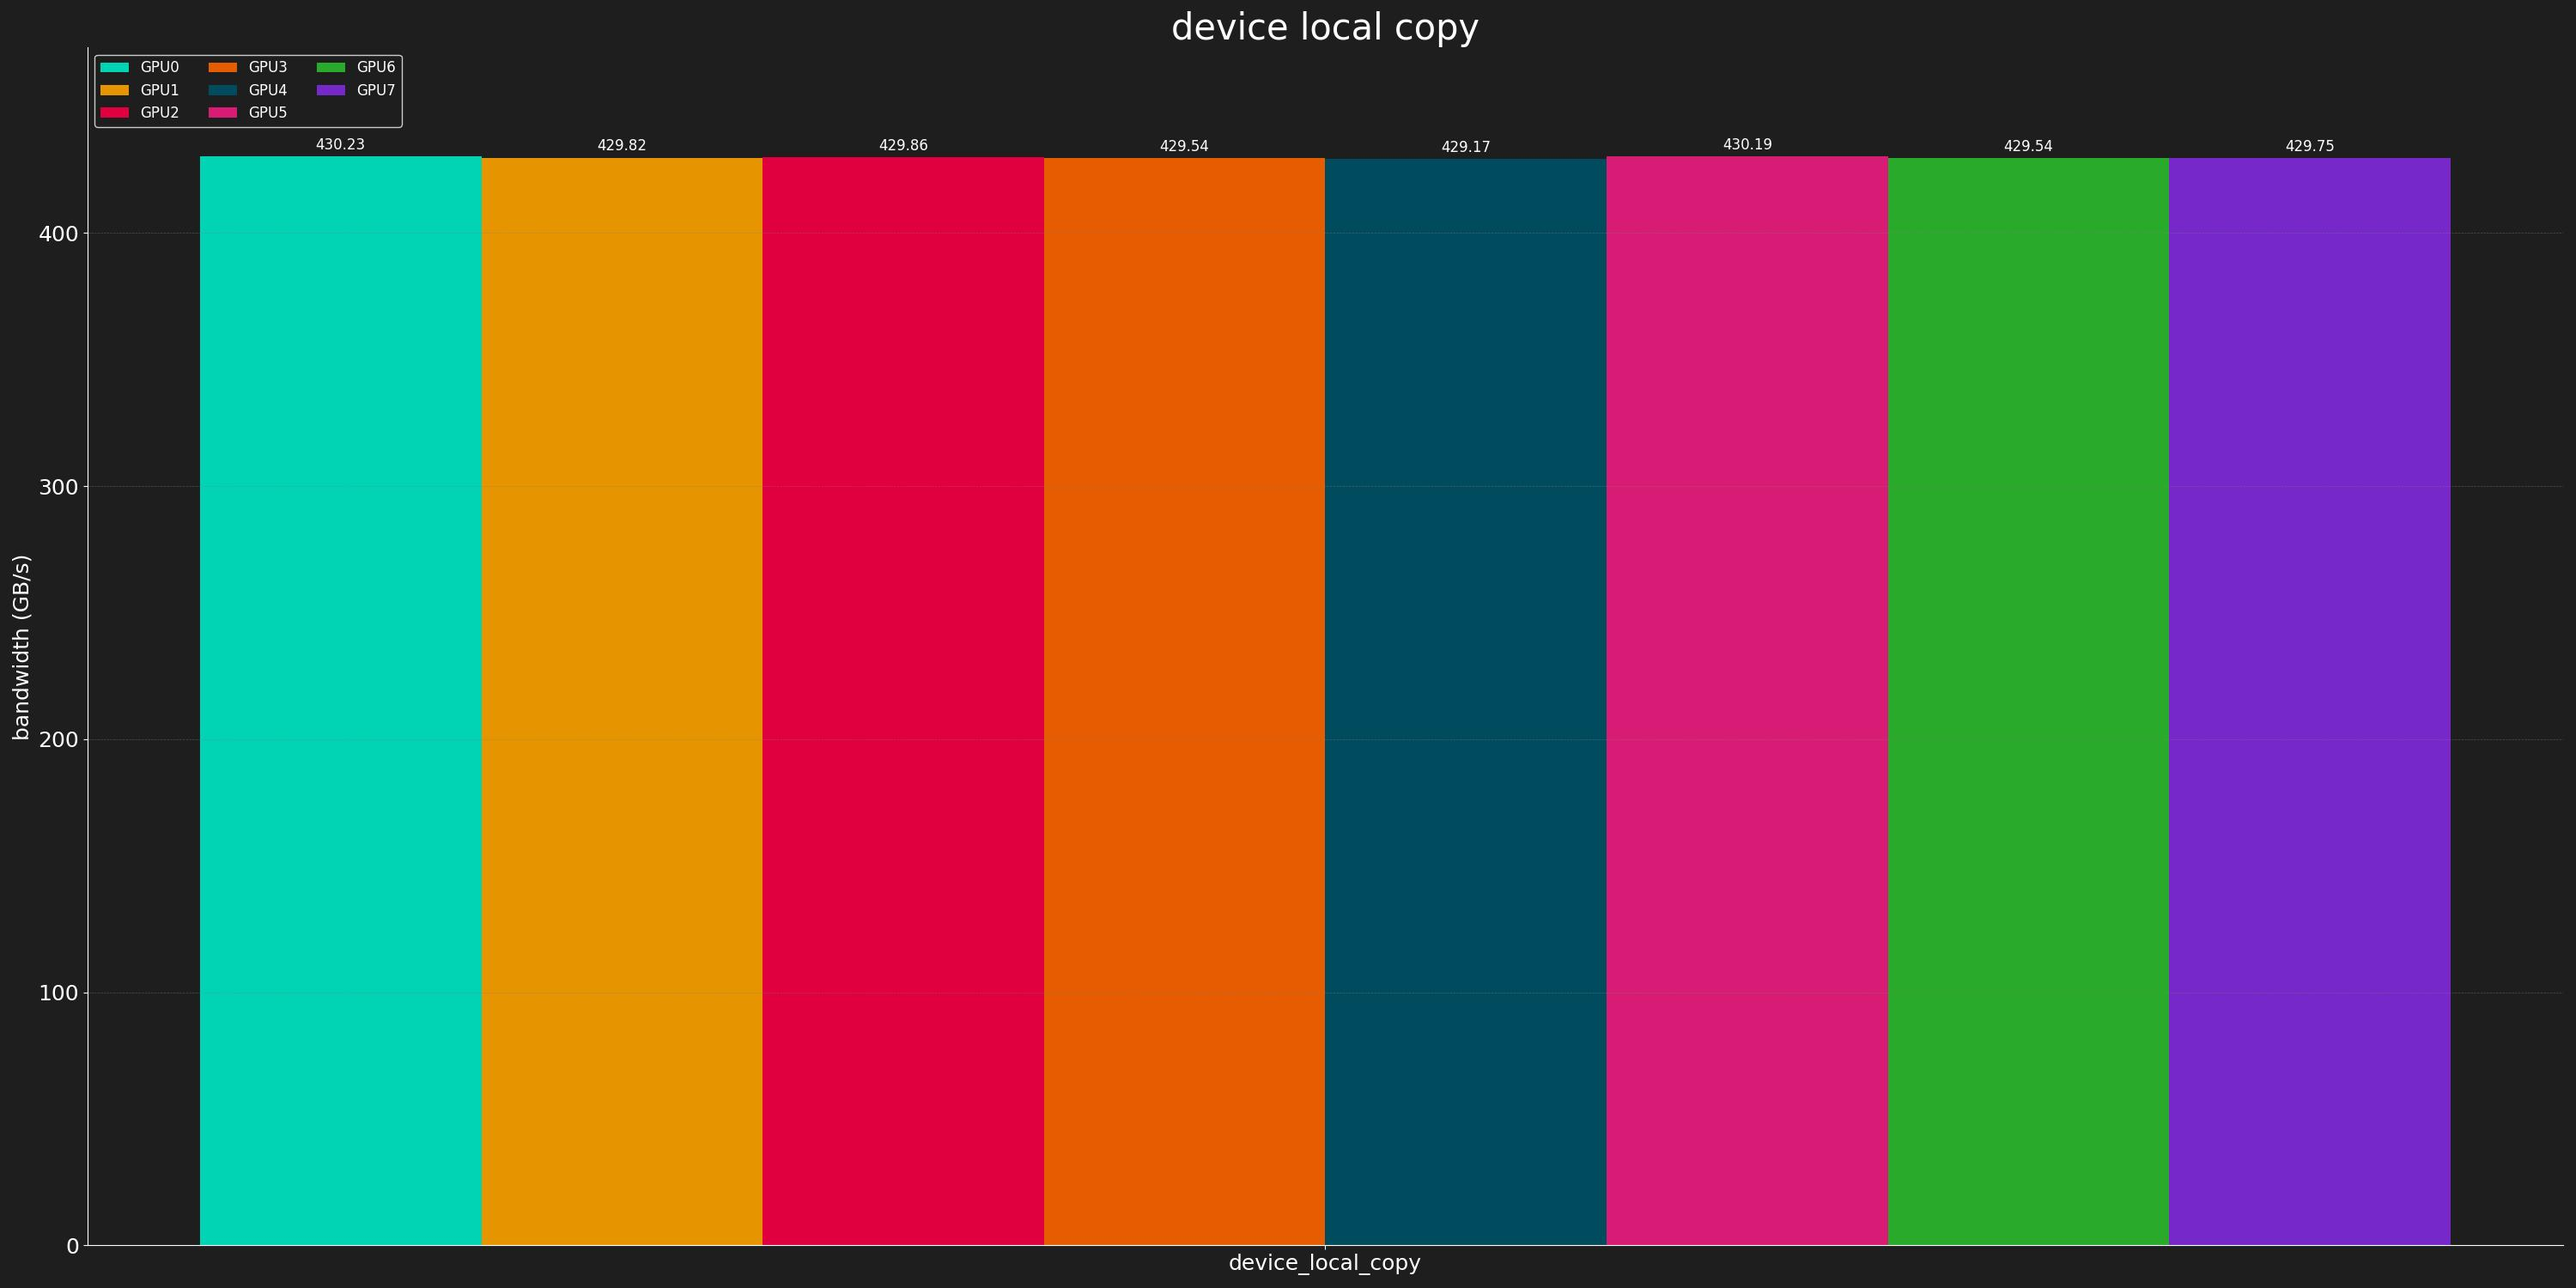
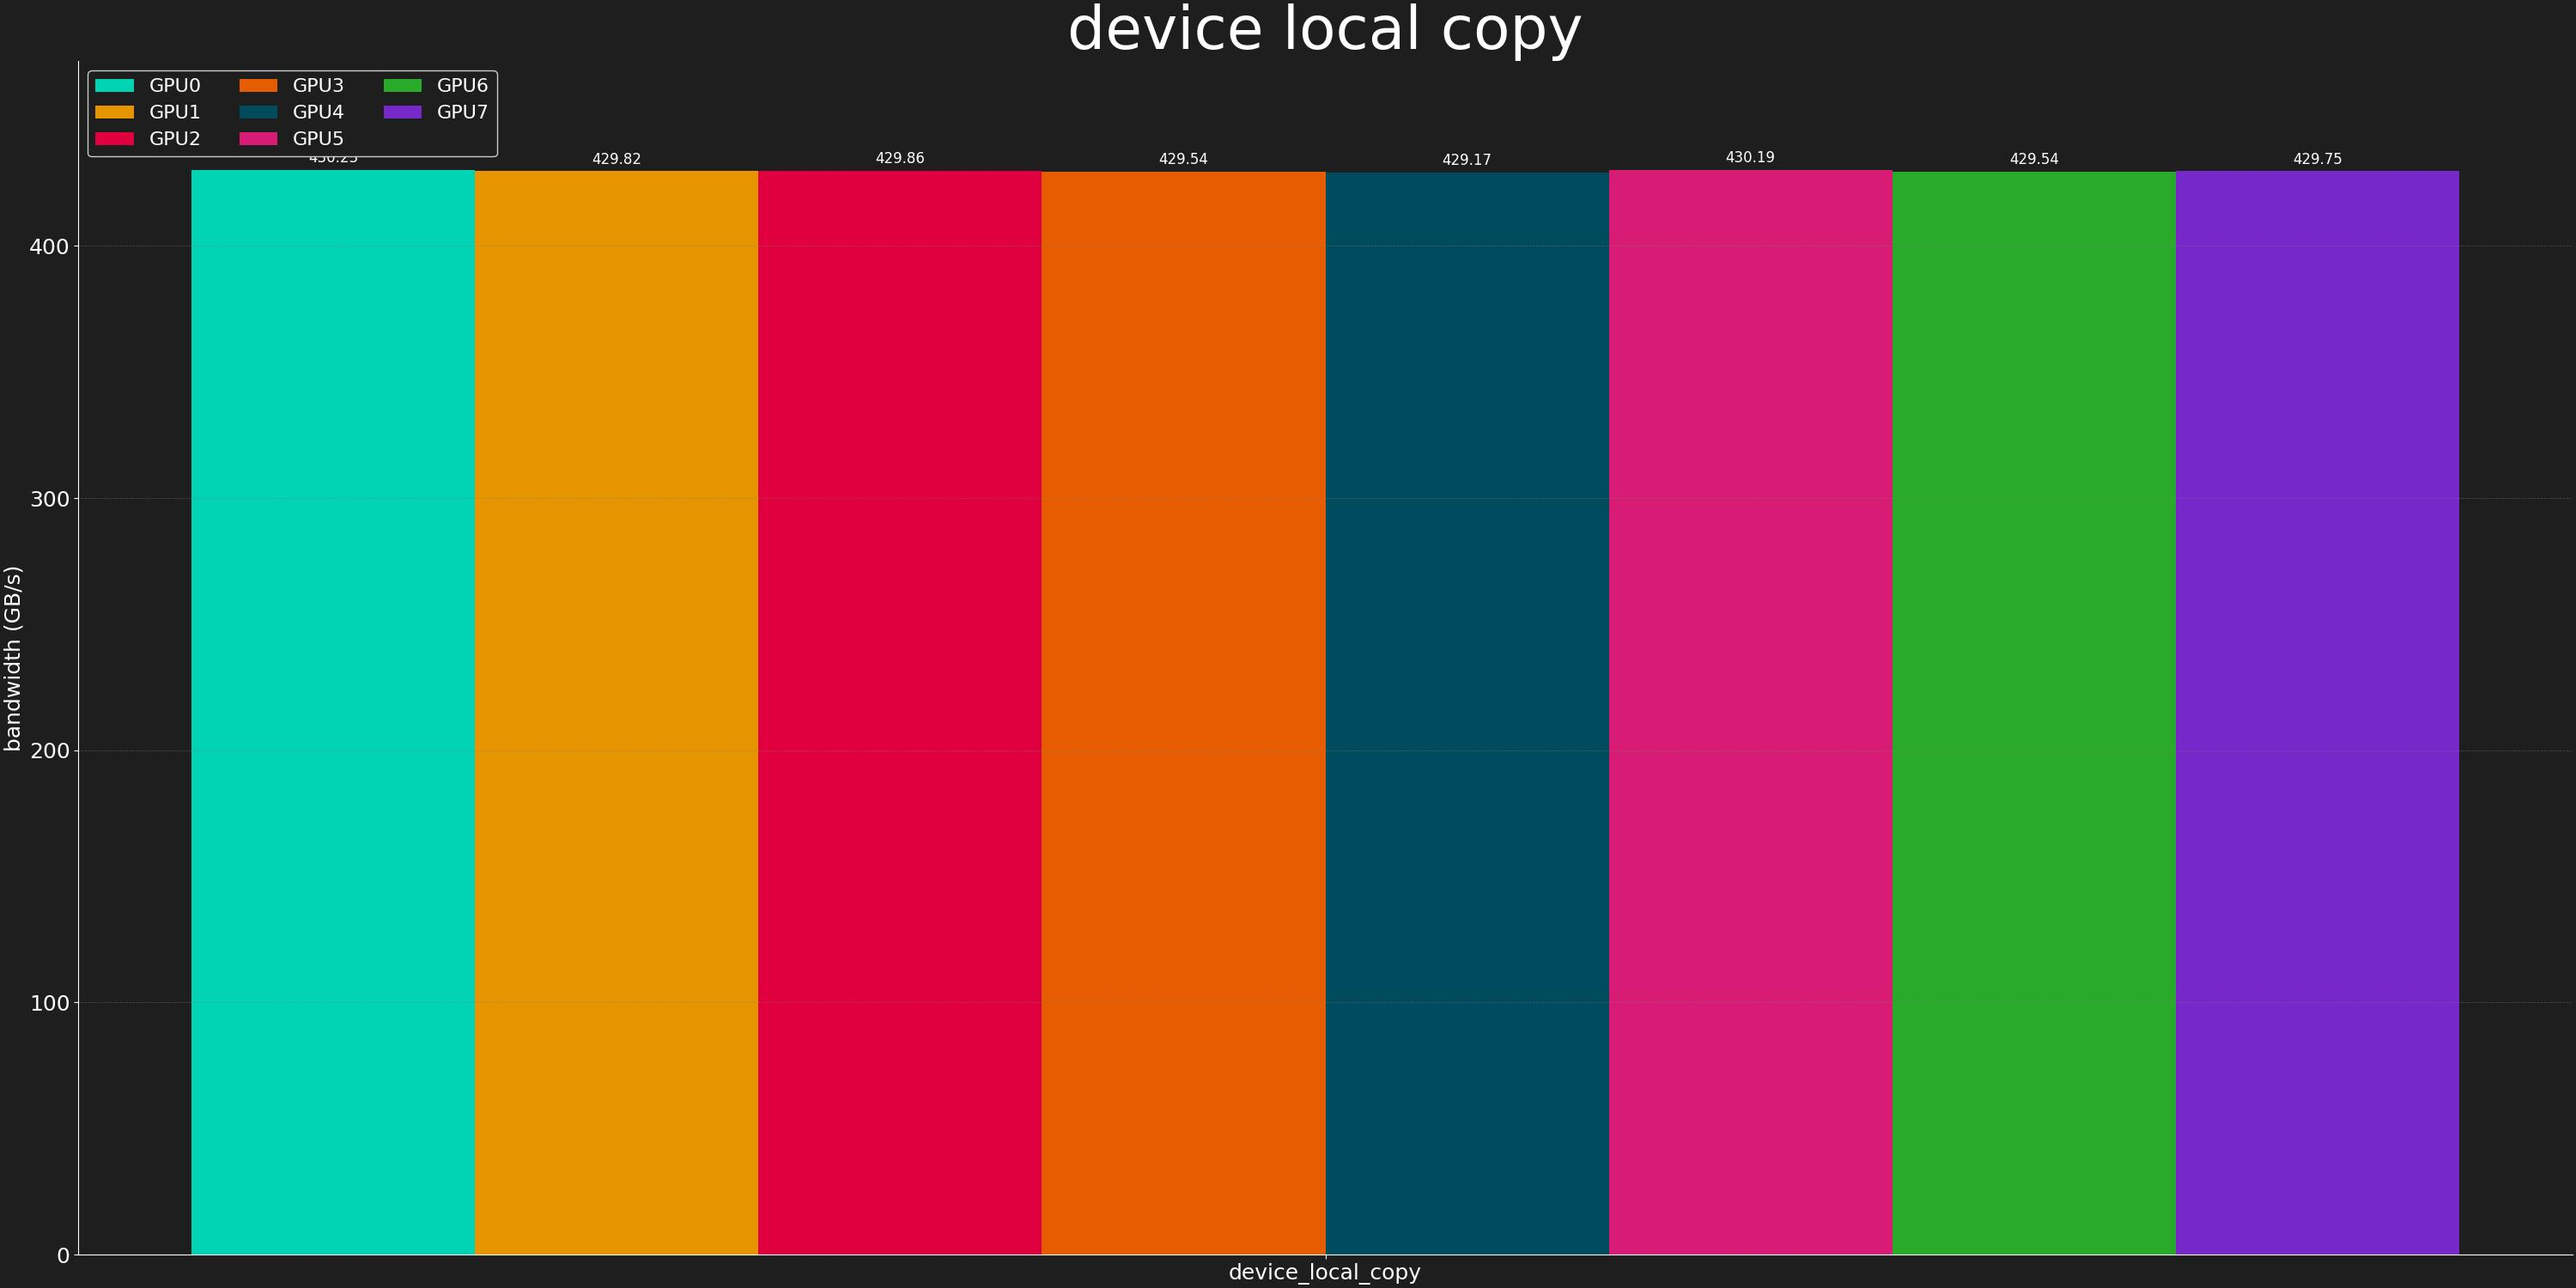
updated configs

diff --git a/graph_generators/bar_graph.py b/graph_generators/bar_graph.py
@@ -3,6 +3,71 @@ import numpy as np
 
 from utils.handle_data import save_graphs
 
+#
+#
+# def plot_bar_graph(data, graph_config, file_name, test_name):
+#     """
+#     Plots a Grafana-style bar graph from a Pandas DataFrame.
+#     Dark mode.
+#     """
+#
+#     plt.rcParams.update({
+#         # ---------- Figure Settings ----------
+#         'figure.facecolor': '#1E1E1E',  # Dark background for the figure
+#         'figure.figsize': (graph_config.WIDTH, graph_config.HEIGHT),  # Default figure size
+#
+#         # ---------- Axes Settings ----------
+#         'axes.facecolor': '#1E1E1E',  # Dark background for the axes
+#         'axes.edgecolor': 'white',  # Color for axes' edges (spines)
+#         'axes.labelsize': graph_config.AXIS_LABEL_FONT_SIZE,  # Font size for axis labels
+#         'axes.labelcolor': 'white',  # Label color for axes
+#         'axes.titleweight': 'bold',  # Make titles bold
+#         'axes.titlesize': graph_config.TITLE_SIZE,  # Title font size
+#
+#         # ---------- Tick Settings ----------
+#         'xtick.labelsize': graph_config.AXIS_LABEL_FONT_SIZE,  # Font size for x-ticks
+#         'xtick.color': 'white',  # Color for x-ticks
+#         'ytick.labelsize': graph_config.AXIS_LABEL_FONT_SIZE,  # Font size for y-ticks
+#         'ytick.color': 'white',  # Color for y-ticks
+#
+#         # ---------- Grid Settings ----------
+#         'grid.color': 'gray',  # Color for gridlines
+#         'grid.linestyle': '--',  # Style for gridlines
+#         'grid.linewidth': 0.5,  # Thickness of gridlines
+#
+#         # ---------- Legend Settings ----------
+#         'legend.facecolor': '#1E1E1E',  # Legend background color
+#         'legend.framealpha': 1,  # Transparency of the legend box
+#         'legend.fontsize': graph_config.LEGEND_FONT_SIZE,  # Font size for legend text
+#         'legend.edgecolor': 'white',  # Color for the border of the legend
+#
+#         # ---------- Text Settings ----------
+#         'text.color': 'white',  # Default color for all text
+#     })
+#     fig, ax = plt.subplots()
+#     num_rows, num_columns = data.shape
+#     x = np.arange(num_rows)  # Label positions
+#
+#     # Plot bars
+#     for i, column in enumerate(data.columns):
+#         offset = (i - (num_columns - 1) / 2) * graph_config.BAR_WIDTH  # Center bars
+#         rects = ax.bar(
+#             x + offset, data[column], graph_config.BAR_WIDTH,
+#             label=column, color=graph_config.COLOR_THEME[i % len(graph_config.COLOR_THEME)]
+#         )
+#         ax.bar_label(rects, padding=3, fontsize=graph_config.BAR_LABEL_FONT_SIZE, color="white")
+#
+#     # Set labels and title with font size
+#     ax.set_ylabel(graph_config.Y_AXIS)
+#     ax.set_title(test_name)
+#     # Adjust y-axis dynamically
+#     ax.set_ylim(0, data.max().max() * 1.1)
+#     ax.legend()
+#
+#     # Save the graph without clipping issues
+#     save_graphs(plt, file_name)
+#     plt.close(fig)
+#
 
 
 def plot_bar_graph(data, graph_config, file_name, test_name):
@@ -41,12 +106,12 @@ def plot_bar_graph(data, graph_config, file_name, test_name):
 
     # Adjust y-axis dynamically
     ax.set_ylim(0, data.max().max() * 1.1)
-    
+
     # Grid for readability
     ax.grid(True, axis='y', linestyle="--", linewidth=0.5, color="gray", alpha=0.5)
 
     # Automatically adjust layout
-    plt.tight_layout()
+    #plt.tight_layout()
 
     # Save the graph without clipping issues
     save_graphs(plt, file_name)

diff --git a/graph_generators/plot.py b/graph_generators/plot.py
@@ -12,26 +12,38 @@ def plot_lines_graph(data, graph_config, file_name, test_name):
     """
 
     plt.rcParams.update({
+        # ---------- Figure Settings ----------
+        'figure.facecolor': '#1e1e1e',  # Dark background for the figure
+        'figure.figsize': (graph_config.WIDTH, graph_config.HEIGHT),  # Figure size (in inches)
+
+        # ---------- Axes Settings ----------
         'axes.facecolor': '#1e1e1e',  # Dark gray background for the plot area
         'axes.edgecolor': 'white',  # White borders for the axes
         'axes.labelcolor': 'white',  # White color for axis labels
         'axes.labelsize': graph_config.AXIS_LABEL_FONT_SIZE,  # Font size for x and y axis labels
+        'axes.titleweight': 'bold',  # Make titles bold
+        'axes.titlesize': graph_config.TITLE_SIZE,  # Title font size
+
+        # ---------- Tick Settings ----------
         'xtick.color': 'white',  # White ticks along the x-axis
         'ytick.color': 'white',  # White ticks along the y-axis
         'xtick.labelsize': 18,  # Font size for x-axis tick labels
         'ytick.labelsize': 18,  # Font size for y-axis tick labels
+
+        # ---------- Grid Settings ----------
         'grid.color': '#444444',  # Gridline color
         'grid.alpha': 0.5,  # Make the gridlines slightly transparent
-        'text.color': 'white',  # White text for titles and annotations
-        'figure.facecolor': '#1e1e1e',  # Dark background for the figure
-        'figure.figsize': (graph_config.WIDTH, graph_config.HEIGHT),  #  figure size (in inches)
+
+        # ---------- Line Settings ----------
         'lines.linewidth': 2,  # Thicker lines for better visibility
         'lines.color': 'white',  # Default line color (can be overridden)
-        'legend.fontsize': graph_config.LEGEND_FONT_SIZE,
-        'axes.titleweight': 'bold',  # Make titles bold
-        'axes.titlesize': graph_config.TITLE_SIZE  # Title font size
-    })
 
+        # ---------- Legend Settings ----------
+        'legend.fontsize': graph_config.LEGEND_FONT_SIZE,  # Font size for legend text
+
+        # ---------- Text Settings ----------
+        'text.color': 'white'  # White text for titles and annotations
+    })
 
     fig, ax = plt.subplots()
 
@@ -45,6 +57,7 @@ def plot_lines_graph(data, graph_config, file_name, test_name):
         y_label = data.columns[i]  # Use column header as label
         color = graph_config.COLOR_THEME[i % len(graph_config.COLOR_THEME)]  # Assign color
         ax.plot(x_range, y_axis, marker='o', linestyle='-', label=y_label, color=color)
+
 
     # Set x-axis limits
     ax.set_xlim(x_min, x_max)

diff --git a/test_handlers/test_handlers_utils.py b/test_handlers/test_handlers_utils.py
@@ -1,11 +1,11 @@
 from collections import defaultdict
 import inspect
 
-def groups_all_configs(test_graph_config):
+def groups_all_configs(test_config):
     grouped_configs = defaultdict(list)
 
     # Get all class attributes
-    for name, value in inspect.getmembers(test_graph_config):
+    for name, value in inspect.getmembers(test_config):
         # Ensure it's a dictionary and has 'group_id'
         if isinstance(value, dict) and 'group_id' in value:
             grouped_configs[value['group_id']].append(value)

diff --git a/test_handlers/nv_bandwidth.py b/test_handlers/nv_bandwidth.py
@@ -83,7 +83,7 @@ def combine_data_frame(tests):
 def start_bandwidth(file):
     nv_bandwidth_struct = NvBandwidth(org_file=file)
 
-    grouped_test_configs = groups_all_configs(NvBandwidthGraphConfig)
+    grouped_test_configs = groups_all_configs(NvBandwidthConfig)
     for config_group in grouped_test_configs:
         group_id = config_group[0]['group_id']  # Get group_id from the first config in the group
         group_info = NvBandwidthConfig.GROUPS_INFO[group_id]  # Lookup group info

diff --git a/graphs_config.py b/graphs_config.py
@@ -1,13 +1,13 @@
 from utils.colors import ColorPalette
 
 class NvBandwidthGraphConfig:
-    TITLE_SIZE = 30
+    TITLE_SIZE = 50
 
     X_AXIS = 'tests name'
     Y_AXIS = 'bandwidth (GB/s)'
     AXIS_LABEL_FONT_SIZE = 18
 
-    LEGEND_FONT_SIZE = 12
+    LEGEND_FONT_SIZE = 16
     BAR_LABEL_FONT_SIZE = 12
 
     BAR_WIDTH = 0.1
